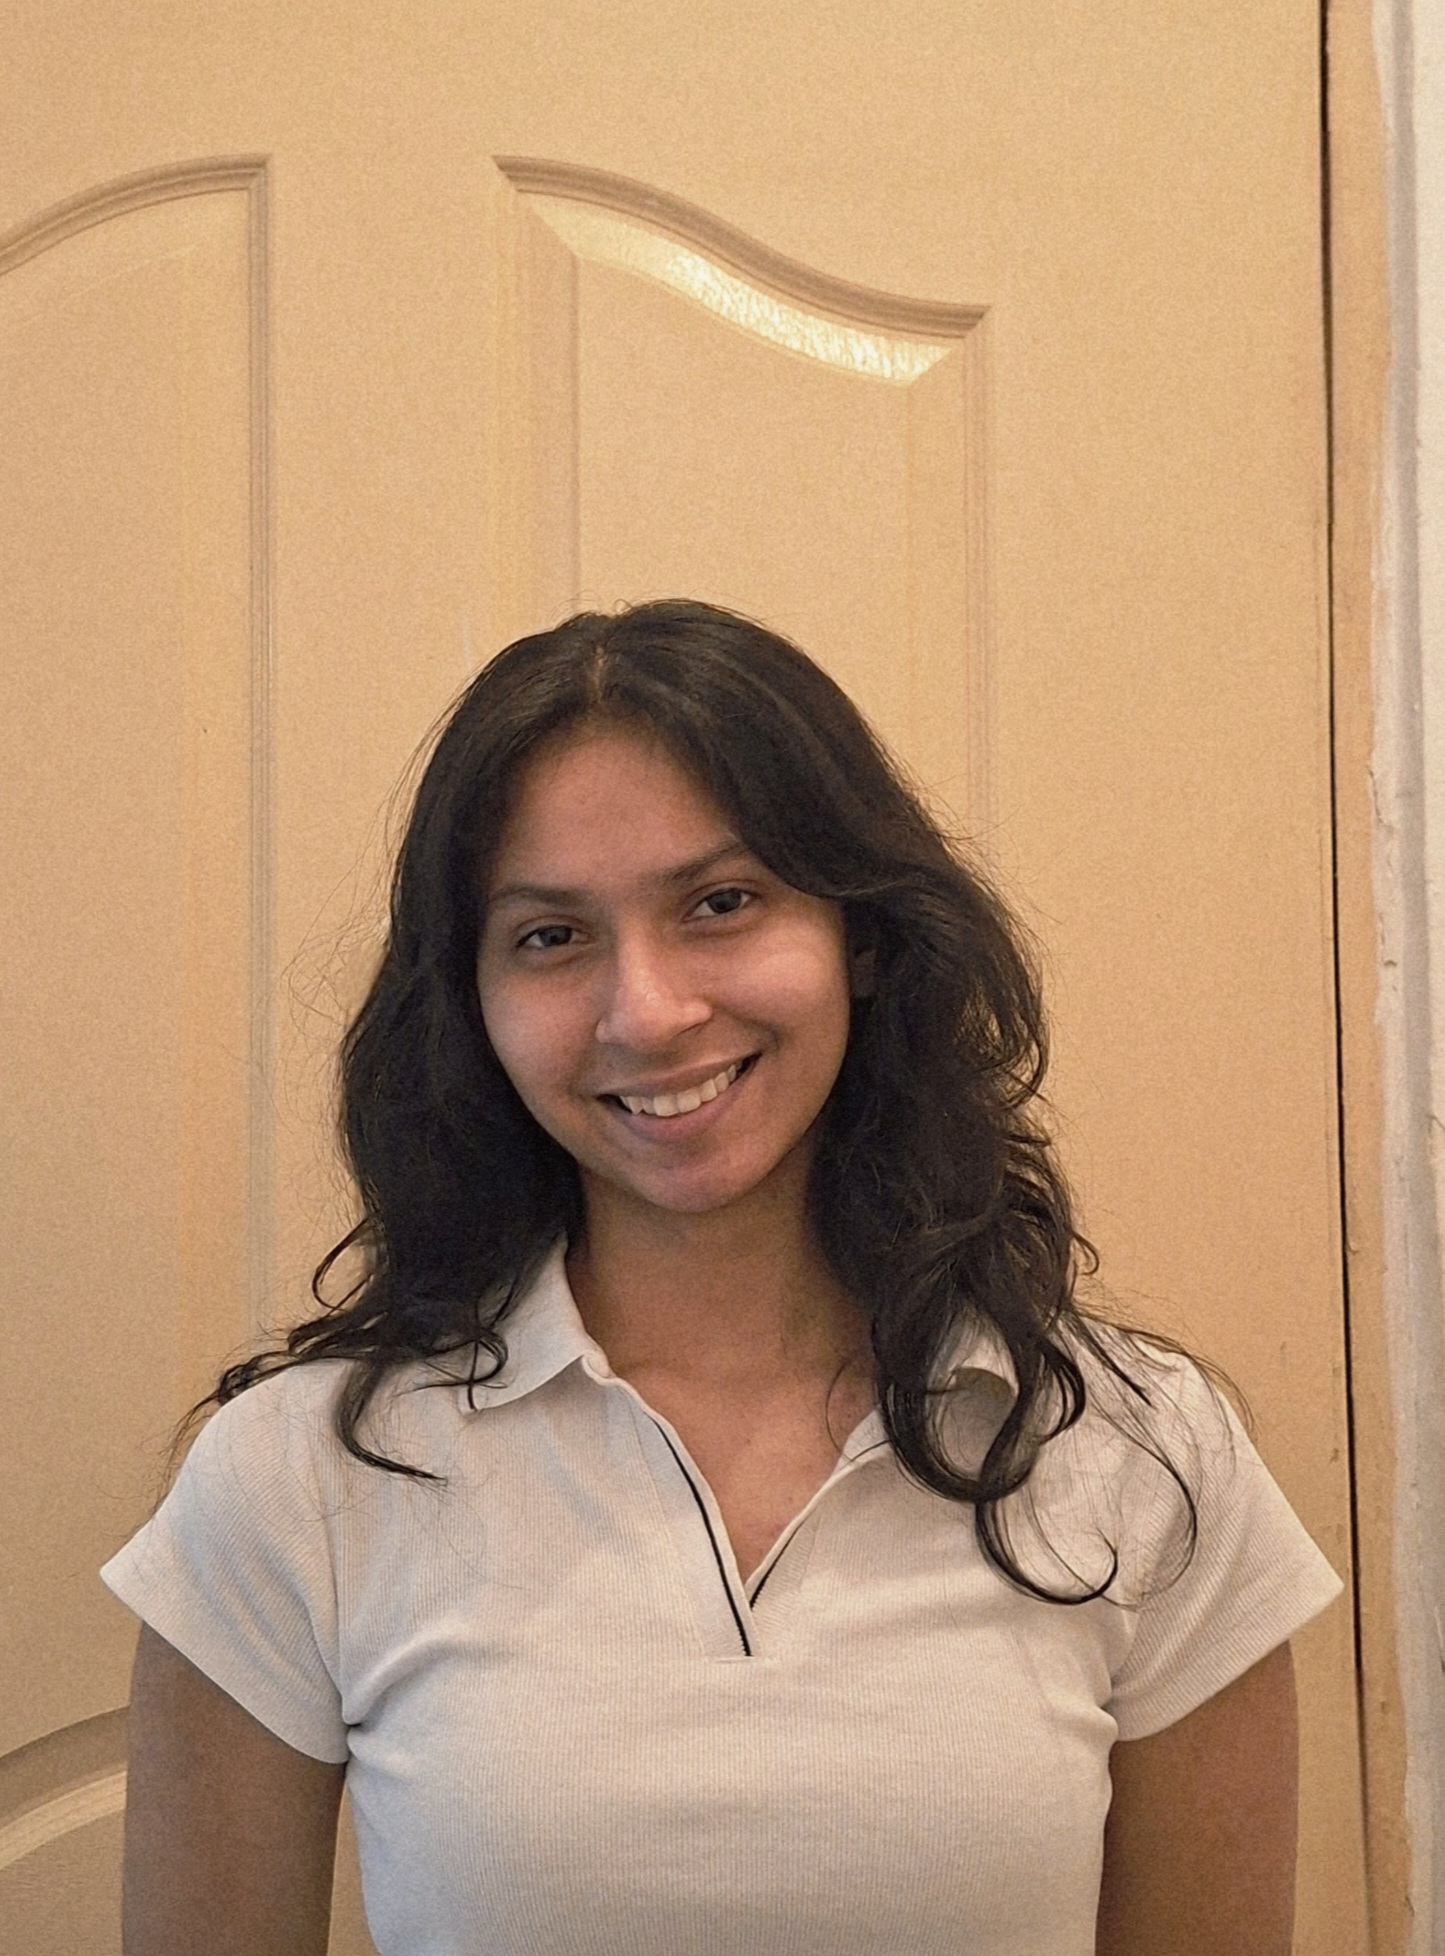
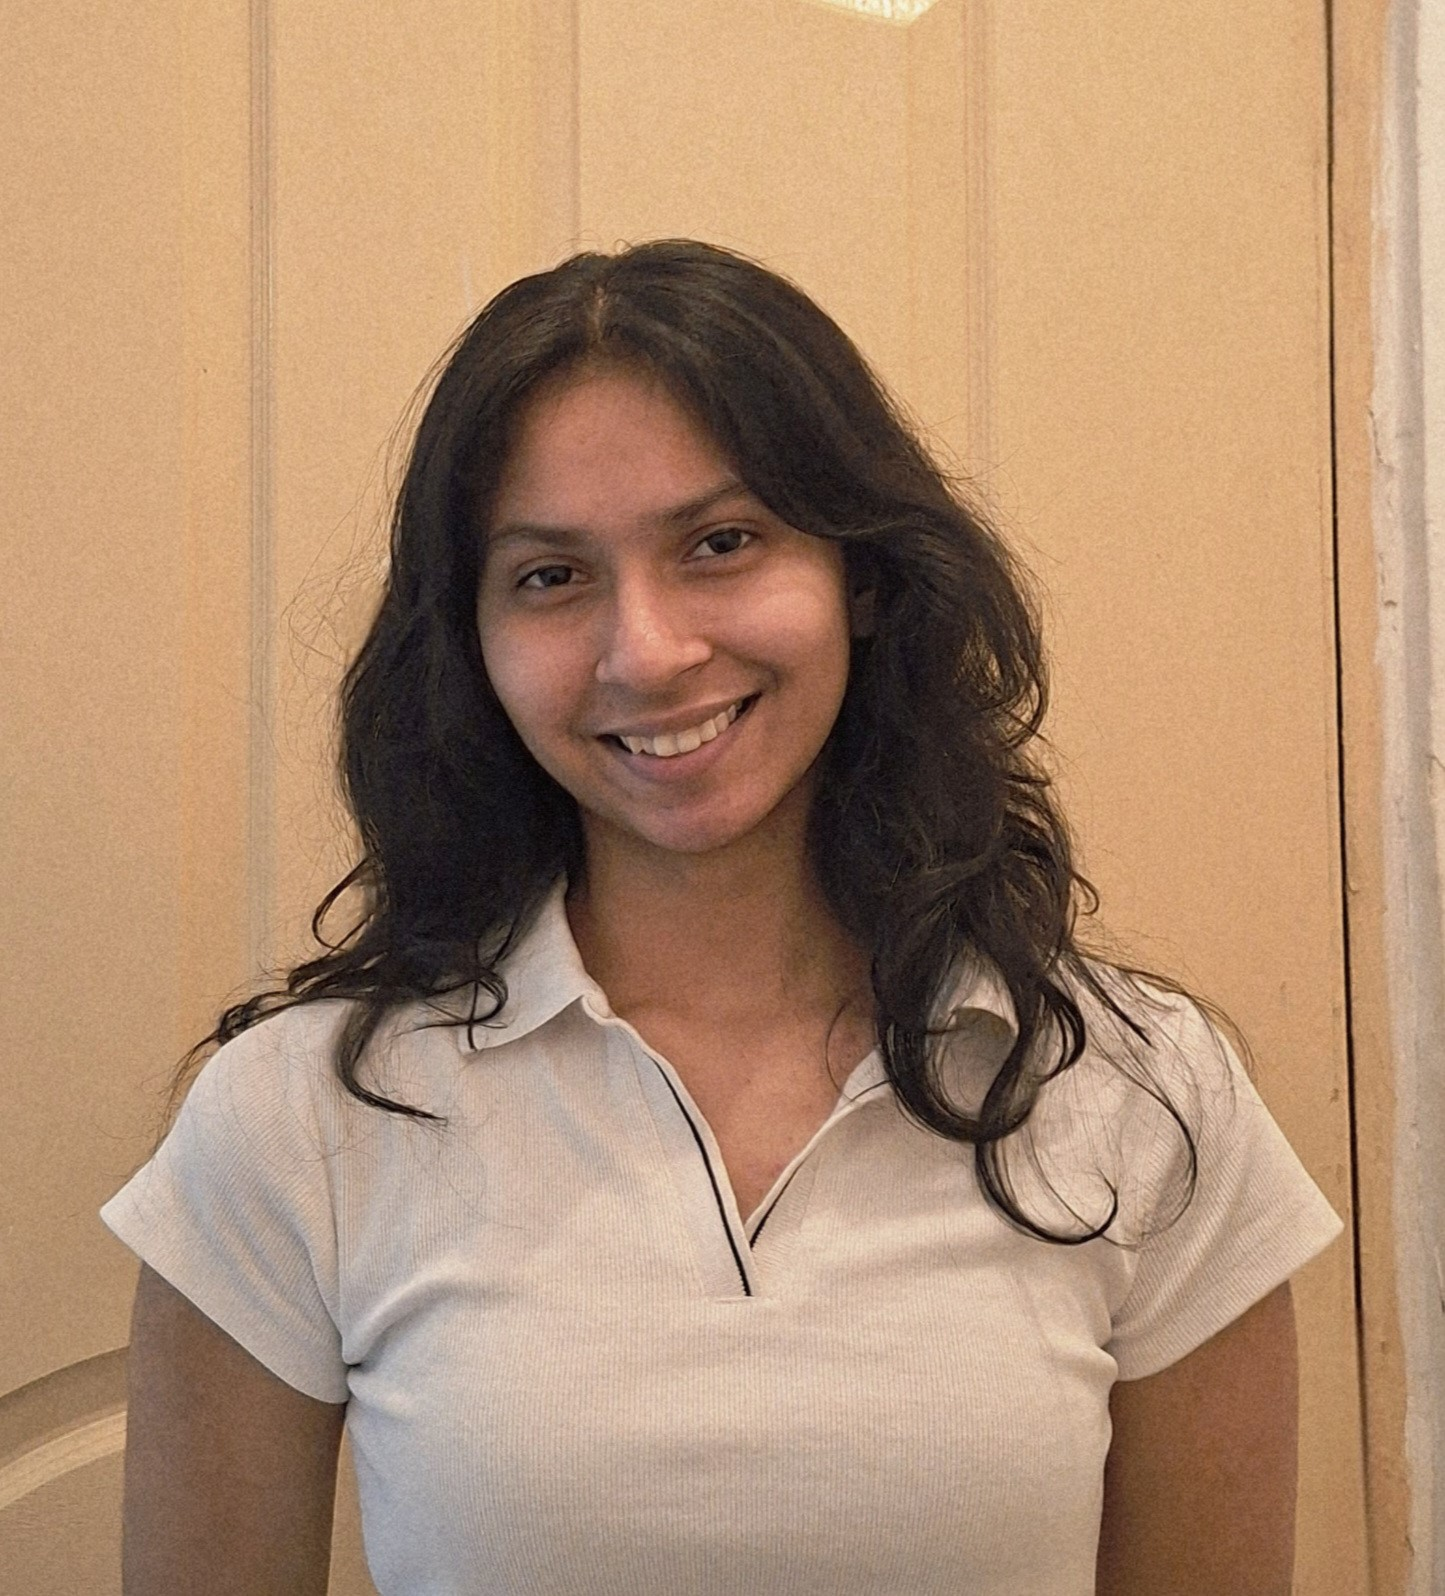
Refine navbar branding and responsiveness
This update tightens the navbar layout for smaller screens, adds the ECELL DYPIU brand label, and improves spacing, hover states, and accessibility. It also refreshes the Kali Kanungo team image asset.

diff --git a/src/components/Navbar.jsx b/src/components/Navbar.jsx
@@ -46,20 +46,23 @@ const Navbar = () => {
         initial={{ y: -100, opacity: 0 }}
         animate={{ y: 0, opacity: 1 }}
         transition={{ duration: 0.5, ease: "circOut" }}
-        className="fixed top-6 left-1/2 transform -translate-x-1/2 z-50 w-[95%] max-w-5xl"
+        className="fixed top-5 left-1/2 -translate-x-1/2 z-50 w-[94%] md:w-fit max-w-[96vw]"
       >
-        <div className="bg-black/80 backdrop-blur-md border border-brand-yellow rounded-full px-6 py-3 shadow-[0_0_30px_rgba(255,178,44,0.6),0_0_60px_rgba(255,178,44,0.3)] flex items-center justify-between">
+        <div className="bg-black/90 backdrop-blur-md border border-brand-yellow rounded-full px-4 sm:px-6 py-2 sm:py-2.5 shadow-[0_0_25px_rgba(255,178,44,0.5),0_0_50px_rgba(255,178,44,0.25)] flex items-center justify-between md:justify-center gap-3 md:gap-4 lg:gap-6">
           {/* Logo */}
-          <Link to="/" className="flex items-center space-x-3 flex-shrink-0 select-none">
+          <Link to="/" className="flex items-center space-x-2.5 flex-shrink-0 select-none group">
             <img
               src="/logonew.png"
               alt="E-Cell"
-              className="h-10 w-auto object-contain brightness-0 invert"
+              className="h-8 md:h-9 w-auto object-contain brightness-0 invert group-hover:scale-105 transition-transform"
             />
+            <span className="text-white font-black text-sm md:text-base tracking-tight uppercase whitespace-nowrap group-hover:text-brand-yellow transition-colors">
+              ECELL DYPIU
+            </span>
           </Link>
 
           {/* Desktop Navigation Links */}
-          <div className="hidden md:flex items-center space-x-1 bg-white/5 rounded-full px-1 py-1 ml-3 border border-white/10 min-w-0 flex-shrink">
+          <div className="hidden md:flex items-center space-x-0.5 bg-white/5 rounded-full px-1 py-1 border border-white/10 flex-shrink-0">
             {navItems.map((item) => (
               <Link
                 key={item.name}
@@ -75,7 +78,7 @@ const Navbar = () => {
           </div>
 
           {/* Right Action: Auth or Let's Talk */}
-          <div className="hidden md:flex items-center gap-2 ml-2 lg:ml-3 flex-shrink-0">
+          <div className="hidden md:flex items-center gap-2 flex-shrink-0">
             {currentUser ? (
               <div className="relative">
                 <button
@@ -134,7 +137,8 @@ const Navbar = () => {
           {/* Mobile menu button */}
           <button
             onClick={() => setIsOpen(!isOpen)}
-            className="block md:hidden text-white p-2 hover:bg-white/10 rounded-full transition-colors ml-auto"
+            className="block md:hidden text-white p-2 hover:bg-white/10 rounded-full transition-colors ml-auto flex-shrink-0"
+            aria-label="Toggle navigation menu"
           >
             <div className="w-6 h-5 flex flex-col justify-between items-center relative">
               <MotionSpan
